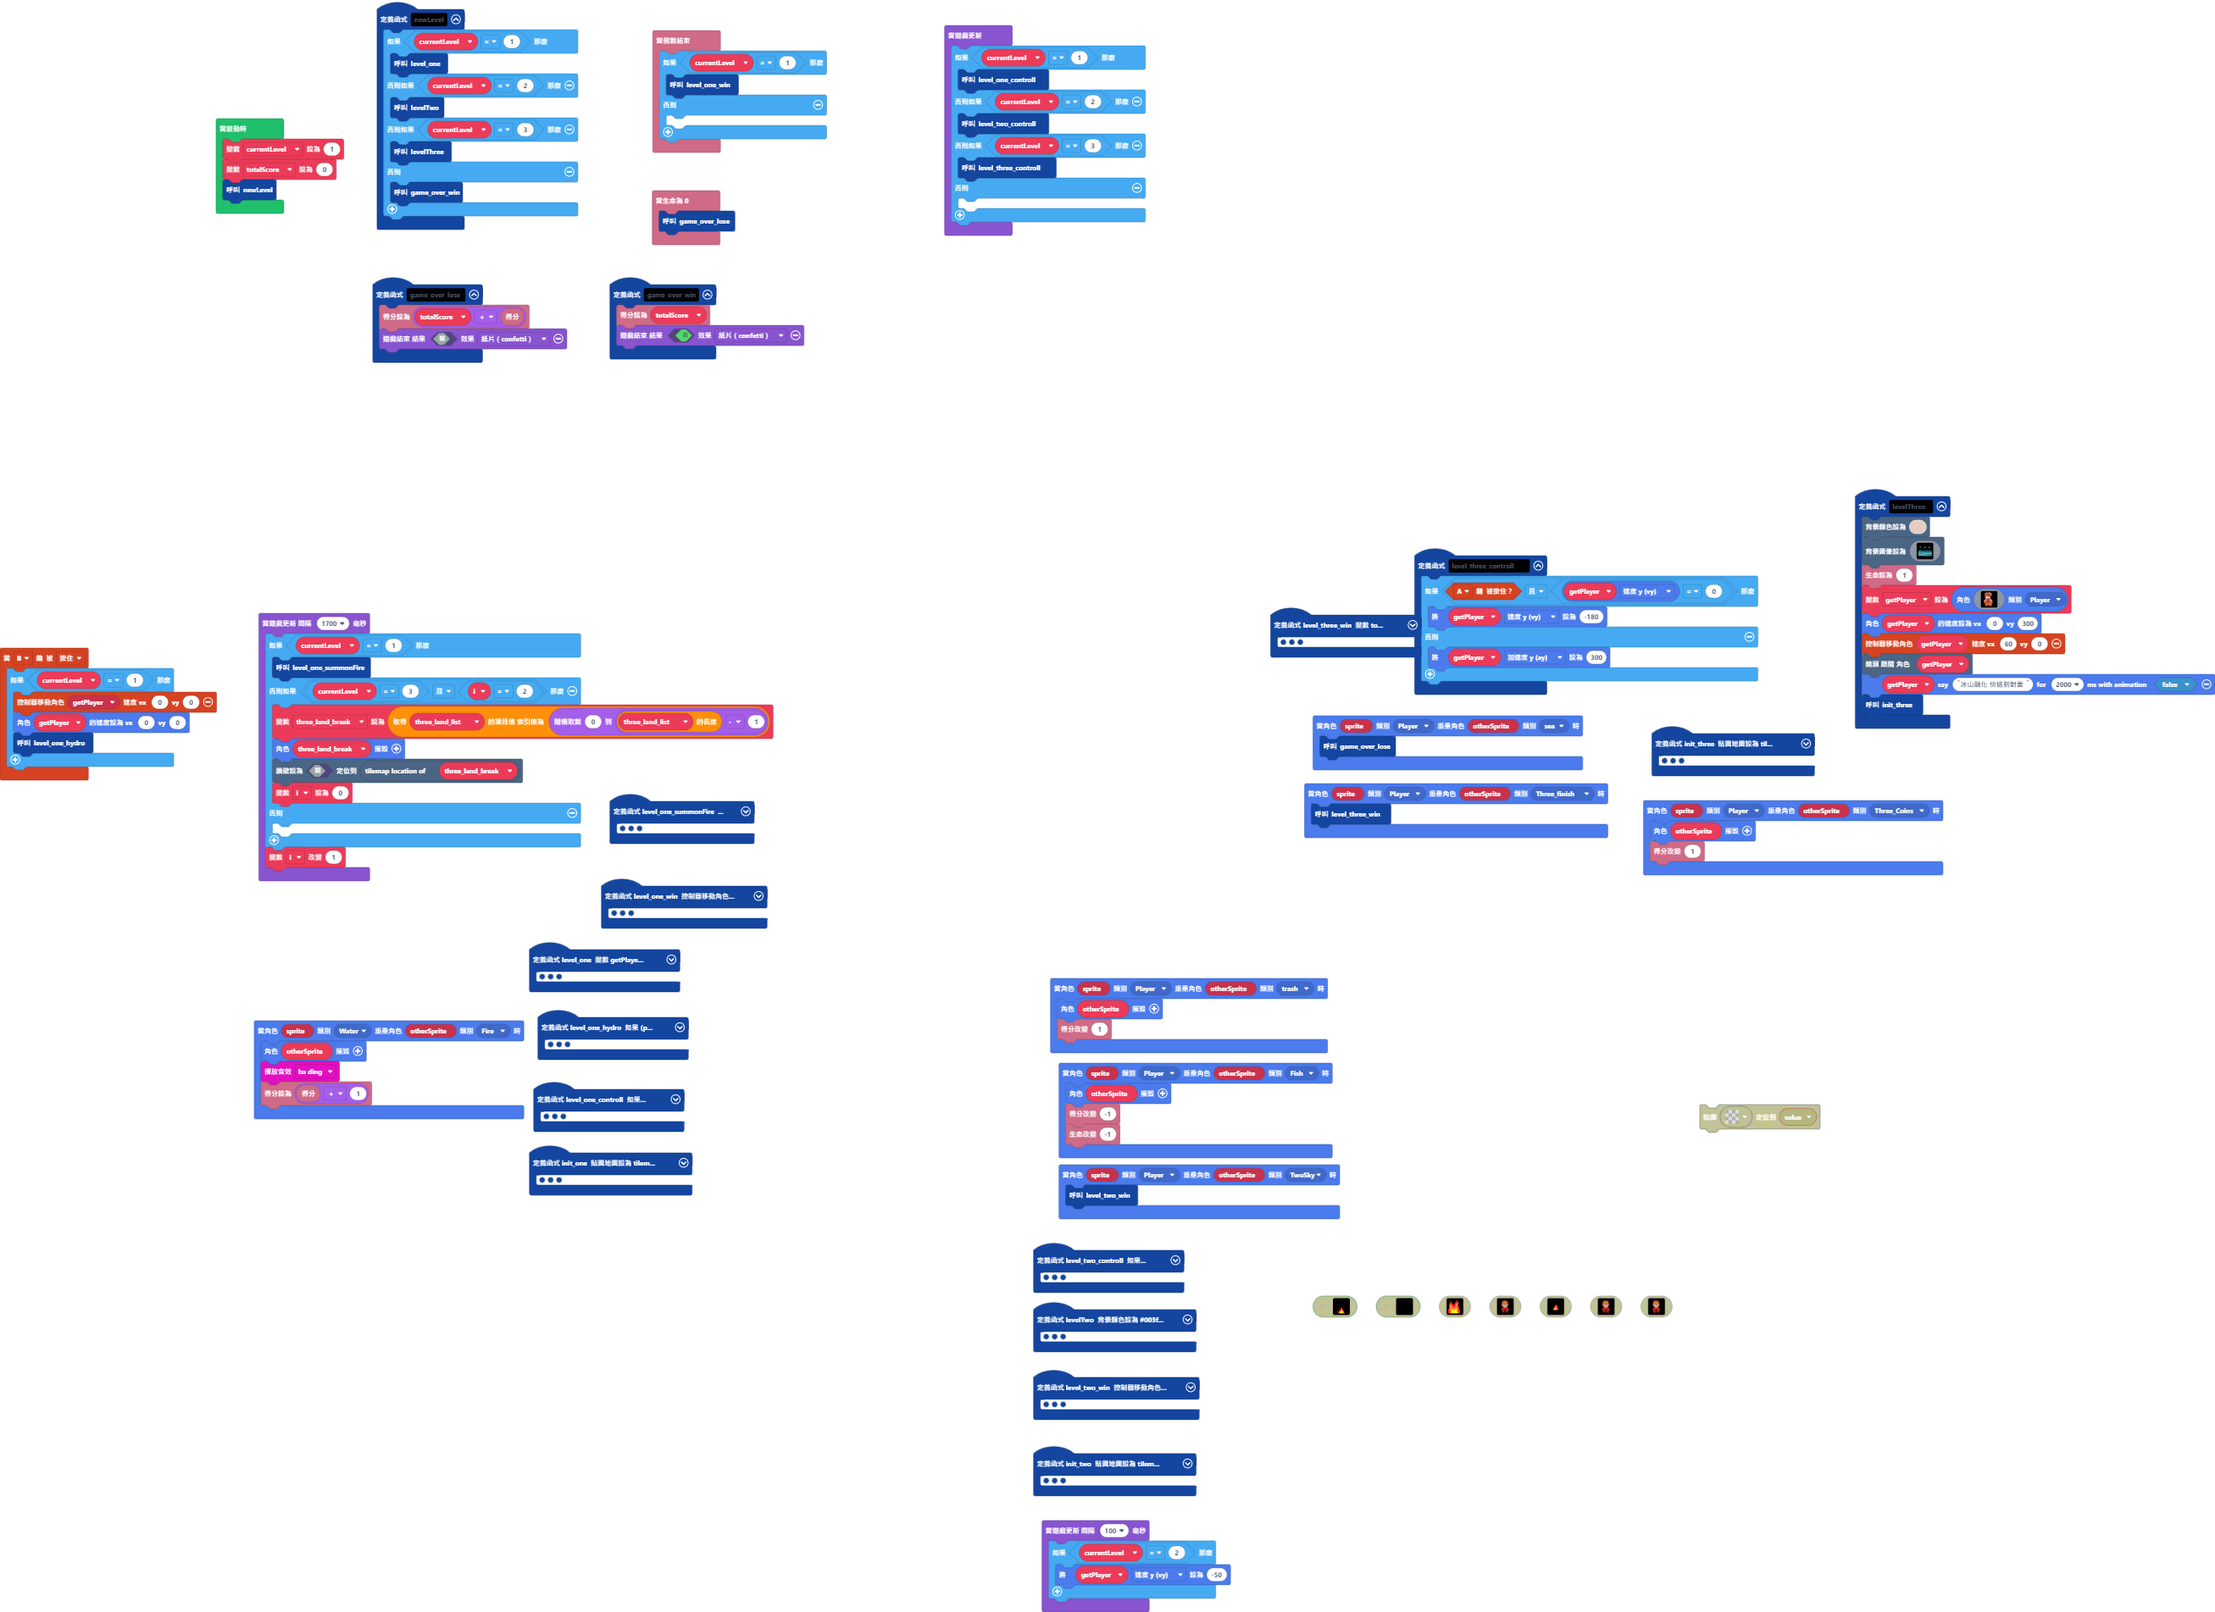
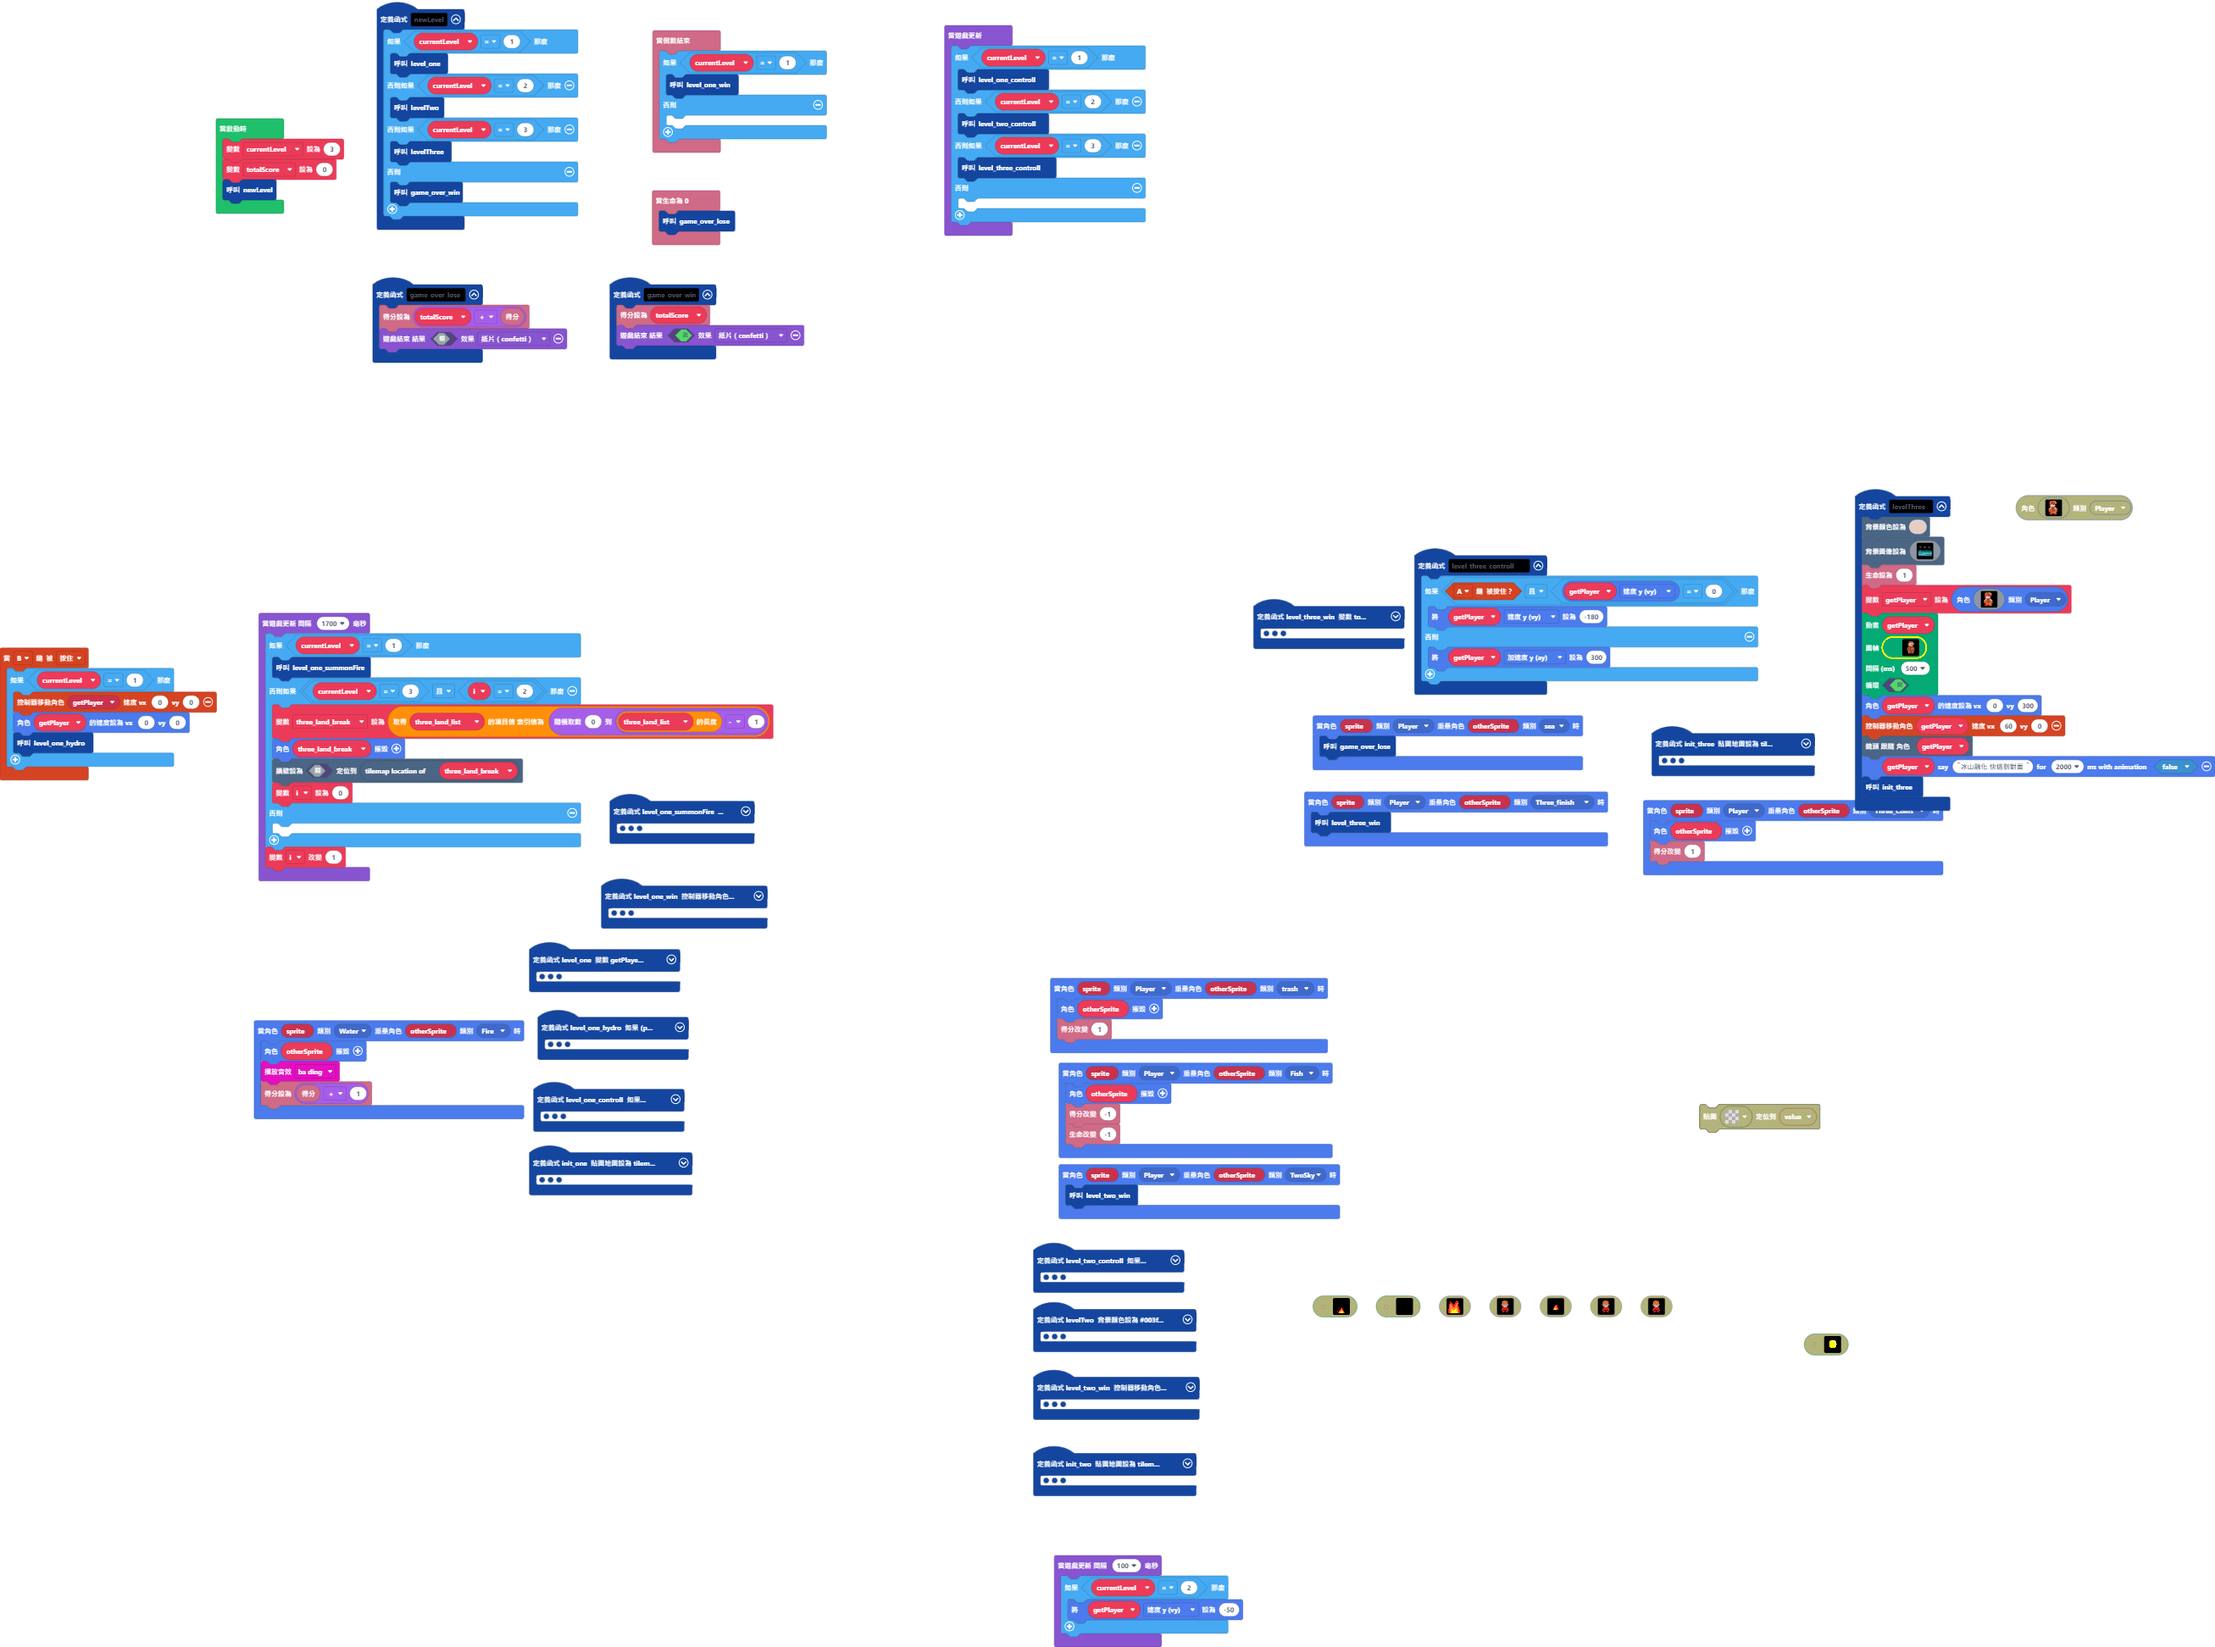
人 CO2

diff --git a/main.ts b/main.ts
@@ -154,6 +154,69 @@ function levelThree () {
         . . . 2 e e 2 2 4 e 4 . . . . . 
         . . . 2 e 4 . . 2 e 4 . . . . . 
         `, SpriteKind.Player)
+    animation.runImageAnimation(
+    getPlayer,
+    [img`
+        . . . . . . . . . . . . . . . . 
+        . . . . . . 4 4 4 4 4 . . . . . 
+        . . . . . . 4 e e 2 e 4 . . . . 
+        . . . . . 4 e 1 1 1 1 1 4 . . . 
+        . . . . . 4 1 1 d f d f 4 . . . 
+        . . . . . 4 1 d d d d d . . . . 
+        . . . . . 2 e d d d d . . . . . 
+        . . . . . . 4 2 4 4 4 . . . . . 
+        . . . . . 4 2 e e e e 4 . . . . 
+        . . . . 4 e e e e e e e 4 . . . 
+        . . . . 4 e e 4 e e 1 e 4 . . . 
+        . . . . 4 e 2 4 e e 4 e 4 . . . 
+        . . . . 4 2 e e e e 2 e e . . . 
+        . . . . . d d e 2 e e e d . . . 
+        . . . . . 4 2 4 . 4 2 4 . . . . 
+        . . . . . 4 e 4 . 4 e 4 . . . . 
+        . . . . . 4 e 4 . 4 e 4 . . . . 
+        . . . . . f f f . f f f . . . . 
+        `,img`
+        . . . . . . . . . . . . . . . . 
+        . . . . . . 4 4 4 4 4 . . . . . 
+        . . . . . . 4 e e 2 e 4 . . . . 
+        . . . . . 4 e 1 1 1 1 1 4 . . . 
+        . . . . . 4 1 1 d f d f 4 . . . 
+        . . . . . 4 1 d d d d d . . . . 
+        . . . . . 2 e d d d d . . . . . 
+        . . . . . . 4 2 4 4 4 . . . . . 
+        . . . . . 4 2 e e e e 4 . . . . 
+        . . . . 4 e e e e e e e 4 . . . 
+        . . . 4 e e e 4 e e 1 e 4 . . . 
+        . . . 4 e e 4 e e e 4 e e 4 . . 
+        . . . 4 e 2 e e e e e 2 e 4 . . 
+        . . . . d d e e 2 e e 2 d d . . 
+        . . . . . 4 2 4 . 4 2 4 . . . . 
+        . . . . 4 e 4 . . 4 e 4 . . . . 
+        . . . . 4 2 4 . . 4 4 . . . . . 
+        . . . . f f f . . f f f . . . . 
+        `,img`
+        . . . . . . . . . . . . . . . . 
+        . . . . . . 4 4 4 4 4 . . . . . 
+        . . . . . . 4 e e 2 e 4 . . . . 
+        . . . . . 4 e 1 1 1 1 1 4 . . . 
+        . . . . . 4 1 1 d f d f 4 . . . 
+        . . . . . 4 1 d d d d d . . . . 
+        . . . . . 2 e d d d d . . . . . 
+        . . . . . . 4 2 4 4 4 . . . . . 
+        . . . . . 4 2 e e e e 4 . . . . 
+        . . . . 4 e e e e e e e 4 . . . 
+        . . . . 4 e e 4 e e 1 e 4 . . . 
+        . . . . 4 e 2 e e e 4 e 4 . . . 
+        . . . . 4 e 2 e e e 2 e 4 . . . 
+        . . . . d d e e 2 e e e d . . . 
+        . . . . . 4 2 4 c e 2 4 . . . . 
+        . . . . . 4 e 4 e e 4 . . . . . 
+        . . . . . 4 4 c e 4 . . . . . . 
+        . . . . . f f f f f f . . . . . 
+        `],
+    500,
+    true
+    )
     getPlayer.setVelocity(0, 300)
     controller.moveSprite(getPlayer, 60, 0)
     scene.cameraFollowSprite(getPlayer)
@@ -491,56 +554,56 @@ function init_three () {
         animation.runImageAnimation(
         three_coins,
         [img`
-            . . . . . . . . . . . . . . . . 
-            . . . . . . . . . . . . . . . . 
-            . . . . . f f f f f f . . . . . 
-            . . . . f 5 5 1 1 1 5 f . . . . 
-            . . . f 5 5 5 5 5 5 1 5 f . . . 
-            . . . f 5 5 5 5 5 5 5 1 f . . . 
-            . . . f 5 5 5 5 5 5 5 1 f . . . 
-            . . . f 5 5 5 5 5 5 5 1 5 . . . 
-            . . . f 5 5 5 5 5 5 5 1 f . . . 
-            . . . f 5 5 5 5 5 5 5 1 f . . . 
-            . . . f 5 5 5 5 5 5 5 5 f . . . 
-            . . . . f 5 5 5 5 5 5 f . . . . 
-            . . . . . f f f f f f . . . . . 
-            . . . . . . . . . . . . . . . . 
-            . . . . . . . . . . . . . . . . 
-            . . . . . . . . . . . . . . . . 
-            `,img`
-            . . . . . . . . . . . . . . . . 
-            . . . . . . . . . . . . . . . . 
-            . . . . . . f f f f . . . . . . 
-            . . . . . f 5 5 1 5 f . . . . . 
-            . . . . f 5 5 5 5 1 5 f . . . . 
-            . . . . f 5 5 5 5 5 1 f . . . . 
-            . . . . f 5 5 5 5 5 1 5 . . . . 
-            . . . . f 5 5 5 5 5 1 f . . . . 
-            . . . . f 5 5 5 5 5 1 f . . . . 
-            . . . . f 5 5 5 5 5 5 f . . . . 
-            . . . . f 5 5 5 5 5 5 f . . . . 
-            . . . . . f 5 5 5 5 f . . . . . 
-            . . . . . . f f f f . . . . . . 
-            . . . . . . . . . . . . . . . . 
+            . . . . . . . . . . . c c c . . 
+            . . . . 1 1 1 1 1 1 1 1 c . . . 
+            . . 1 1 1 1 1 1 1 1 1 1 1 . . . 
+            . 1 1 f f f 1 1 2 2 2 1 1 1 . . 
+            1 1 f 1 1 1 f 2 1 1 1 2 1 1 1 . 
+            1 1 f 1 1 1 1 2 1 1 1 2 1 1 1 . 
+            1 1 f 1 1 1 1 2 1 1 1 2 f f 1 1 
+            1 1 f 1 1 1 1 2 1 1 1 2 1 f 1 1 
+            1 1 f 1 1 1 f 2 1 1 1 2 f 1 1 1 
+            . 1 1 f f f 1 1 2 2 2 1 f f 1 1 
+            . . 1 1 c 1 1 1 c c c c c 1 1 . 
+            . . c c c c c 1 . c c c . 1 . . 
+            . . . c c c . . . . c . . . . . 
+            . . . . c . . . . . . . . . . . 
             . . . . . . . . . . . . . . . . 
             . . . . . . . . . . . . . . . . 
             `,img`
+            . . . . . . . . . . c c c c c . 
+            . . . . 1 1 1 1 1 1 1 c c c . . 
+            . . 1 1 1 1 1 1 1 1 1 1 c . . . 
+            . 1 1 f f f 1 1 2 2 2 1 1 1 . . 
+            1 1 f 1 1 1 f 2 1 1 1 2 1 1 1 . 
+            1 1 f 1 1 1 1 2 1 1 1 2 1 1 1 . 
+            1 1 f 1 1 1 1 2 1 1 1 2 f f 1 1 
+            1 1 f 1 1 1 1 2 1 1 1 2 1 f 1 1 
+            1 1 f 1 1 1 f 2 1 1 1 2 f 1 1 1 
+            . 1 1 f f f 1 1 2 2 2 1 f f 1 1 
+            . . 1 1 1 1 1 1 1 1 c 1 1 1 1 . 
+            . . . . c 1 1 1 c c c c c 1 . . 
+            . . c c c c c . . c c c . . . . 
+            . . . c c c . . . . c . . . . . 
+            . . . . c . . . . . . . . . . . 
             . . . . . . . . . . . . . . . . 
-            . . . . . . . . . . . . . . . . 
-            . . . . . . . f f . . . . . . . 
-            . . . . . . f 5 1 f . . . . . . 
-            . . . . . f 5 5 5 5 f . . . . . 
-            . . . . . f 5 5 5 1 f . . . . . 
-            . . . . . f 5 5 5 1 f . . . . . 
-            . . . . . f 5 5 5 1 5 . . . . . 
-            . . . . . f 5 5 5 1 f . . . . . 
-            . . . . . f 5 5 5 5 f . . . . . 
-            . . . . . f 5 5 5 5 f . . . . . 
-            . . . . . . f 5 5 f . . . . . . 
-            . . . . . . . f f . . . . . . . 
-            . . . . . . . . . . . . . . . . 
-            . . . . . . . . . . . . . . . . 
-            . . . . . . . . . . . . . . . . 
+            `,img`
+            . . . . . . . . . . . . c . . . 
+            . . . . 1 1 1 1 1 1 c c c c c . 
+            . . 1 1 1 1 1 1 1 1 1 c c c . . 
+            . 1 1 f f f 1 1 2 2 2 1 c 1 . . 
+            1 1 f 1 1 1 f 2 1 1 1 2 1 1 1 . 
+            1 1 f 1 1 1 1 2 1 1 1 2 1 1 1 . 
+            1 1 f 1 1 1 1 2 1 1 1 2 f f 1 1 
+            1 1 f 1 1 1 1 2 1 1 1 2 1 f 1 1 
+            1 1 f 1 1 1 f 2 1 1 1 2 f 1 1 1 
+            . 1 1 f f f 1 1 2 2 2 1 f f 1 1 
+            . . 1 1 1 1 1 1 1 1 1 1 1 1 1 . 
+            . . . . . 1 1 1 1 1 c 1 1 1 . . 
+            . . . . c . . . c c c c c . . . 
+            . . c c c c c . . c c c . . . . 
+            . . . c c c . . . . c . . . . . 
+            . . . . c . . . . . . . . . . . 
             `],
         500,
         true
@@ -2245,7 +2308,7 @@ let playerFace = 0
 let getPlayer: Sprite = null
 let totalScore = 0
 let currentLevel = 0
-currentLevel = 1
+currentLevel = 3
 totalScore = 0
 newLevel()
 game.onUpdate(function () {
